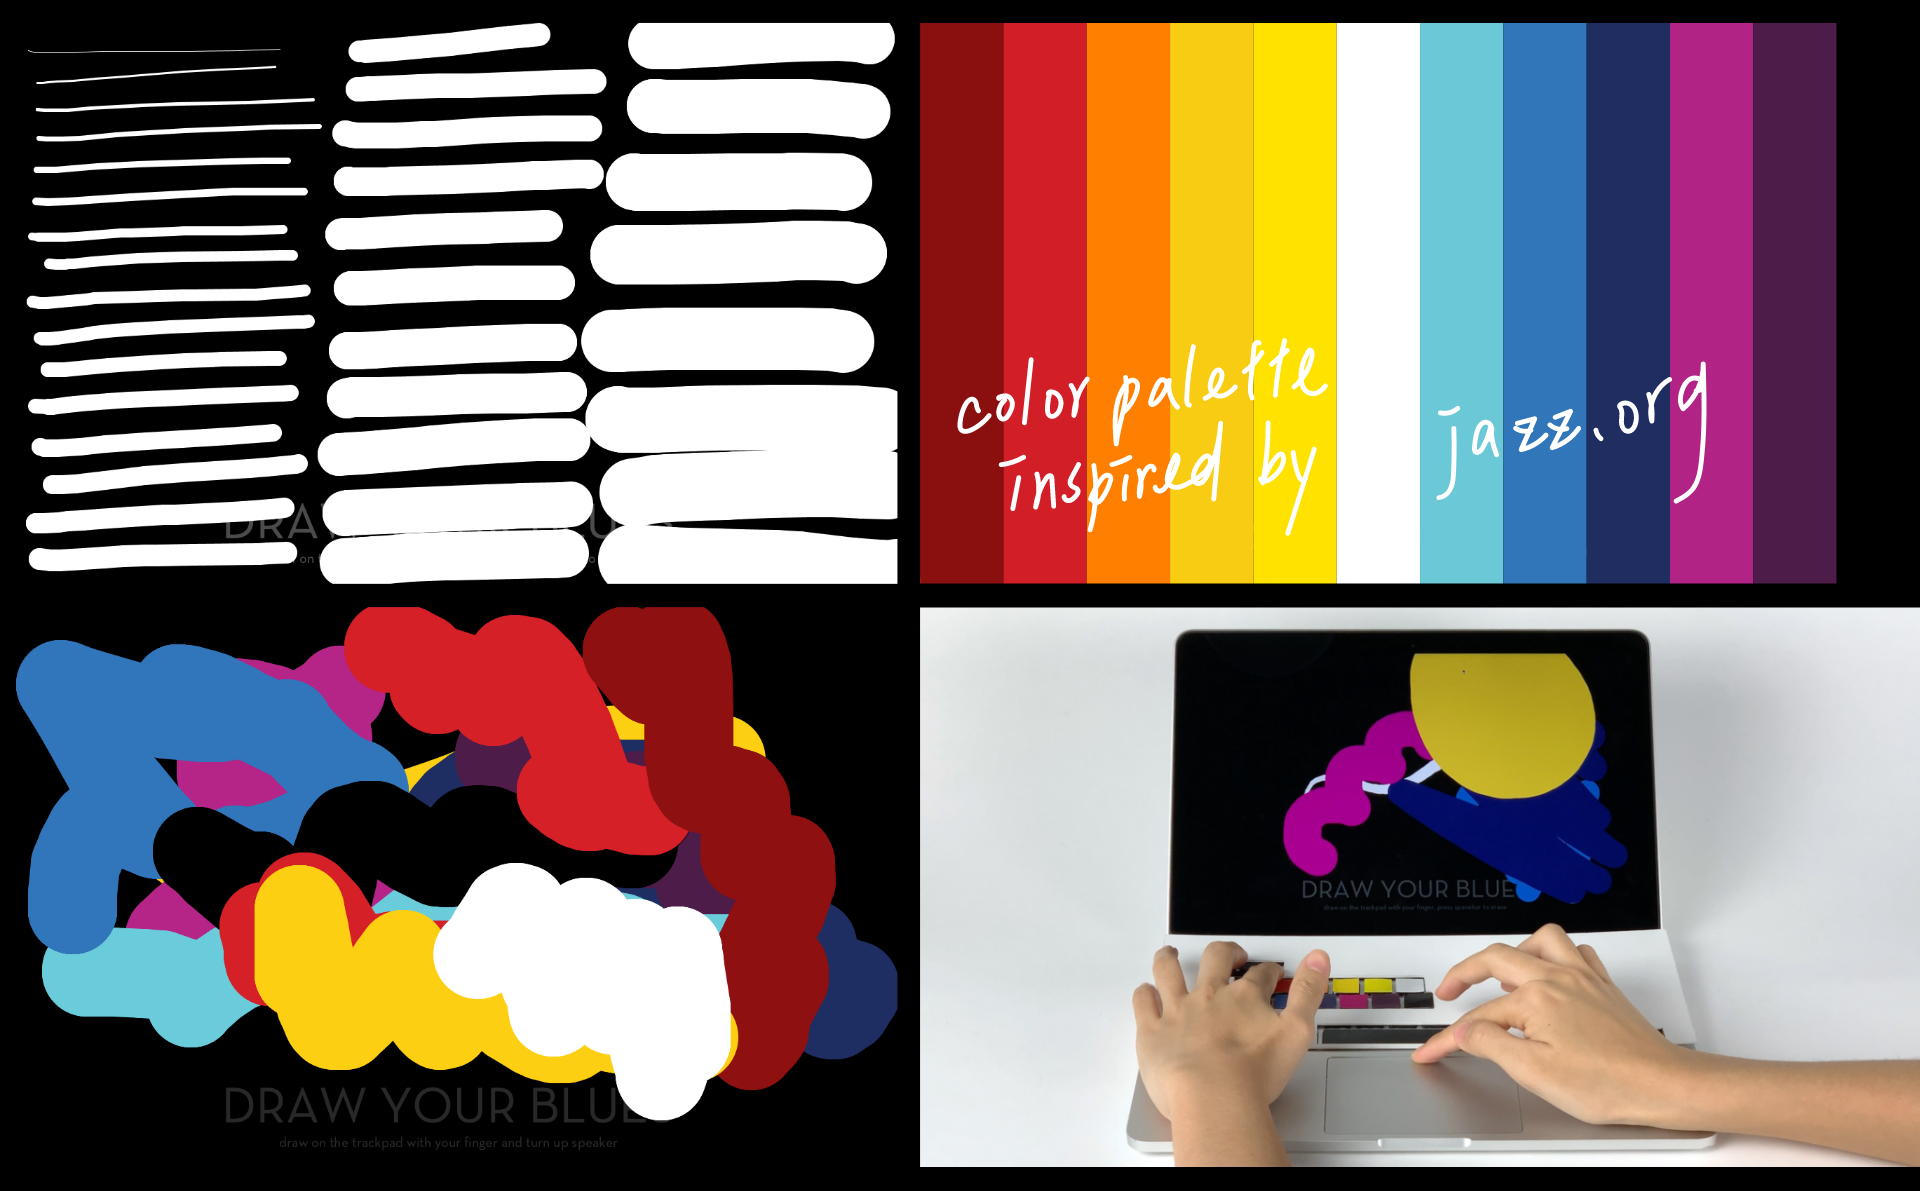
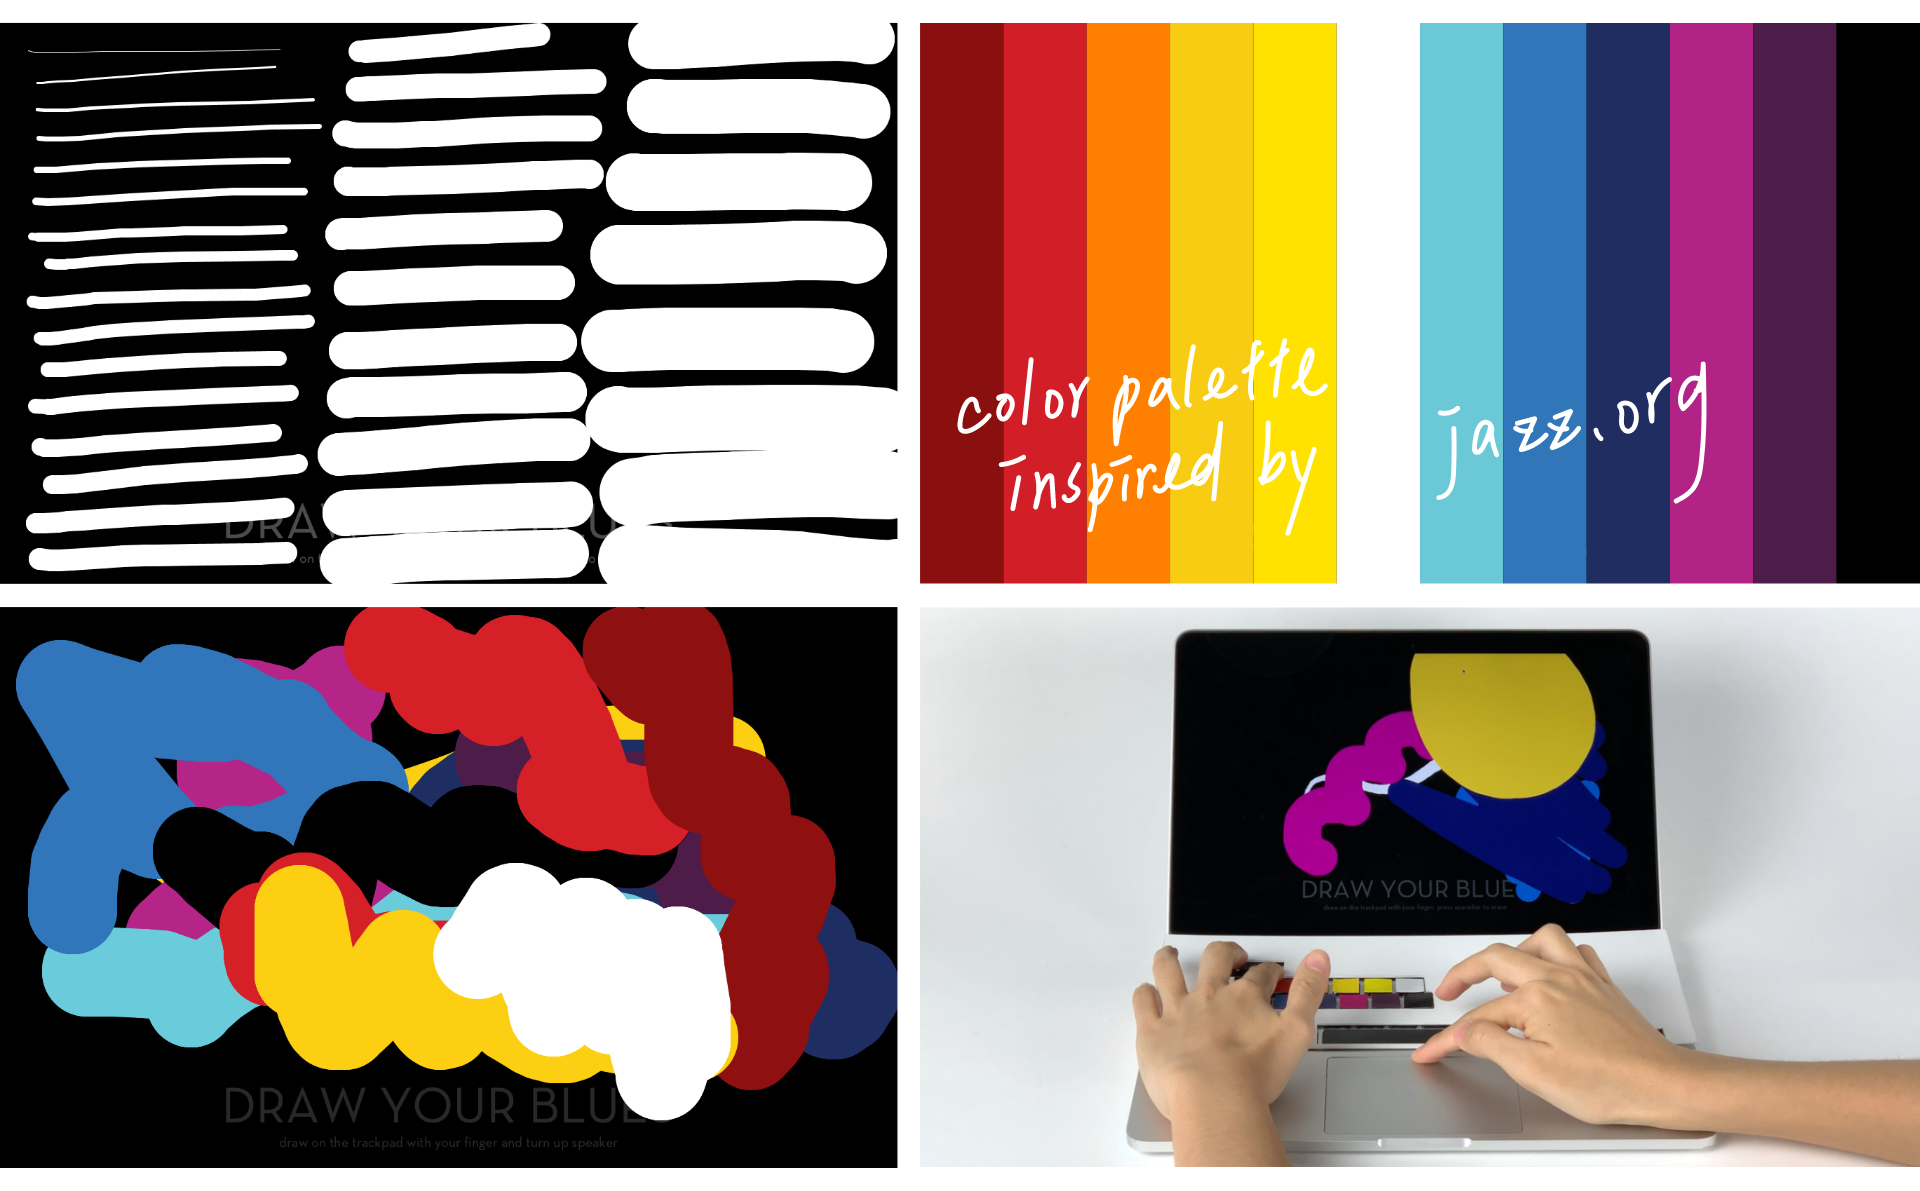
s
s

Changed region(s): [[0.0, 0.0, 1.0, 1.0]]

diff --git a/workstyle.css b/workstyle.css
@@ -7,7 +7,7 @@
 body, html{
   width: 100%;
   height: 100vh;
-  background: black;
+  background: white;
 }
 
 body{
@@ -65,7 +65,7 @@ body{
   font-variant: normal; 
   font-weight: 100; 
   line-height: 28px;
-  color: white;
+  color: black;
   position: fixed;
 }
 
@@ -100,7 +100,7 @@ ul li a{
   font-variant: normal; 
   font-weight: 100; 
   line-height: 28px;
-  color: white;
+  color: black;
   text-decoration: none;
   padding: 0 0;
 }
@@ -174,7 +174,7 @@ p3{
   font-size: 21px;
   line-height: 28px;
   font-family: 'Tinos', serif;
-  color: black;
+  color: white;
 }
 
 h1{
@@ -191,7 +191,7 @@ font-family: 'Karla', sans-serif;
   font-variant: normal; 
   font-weight: 100; 
   line-height: 28px;
-  color: white;
+  color: black;
   text-decoration: none;
 }
 
@@ -213,7 +213,7 @@ a.infolink{
   font-variant: normal; 
   font-weight: 100; 
   line-height: 28px;
-  color: white;
+  color: black;
   text-decoration: none;
 }
 
@@ -235,7 +235,7 @@ a.logolink{
   font-variant: normal; 
   font-weight: 100; 
   line-height: 28px;
-  color: white;
+  color: black;
   text-decoration: none;
 }
 
@@ -257,7 +257,7 @@ a.thumblink{
   font-variant: normal; 
   font-weight: 100; 
   line-height: 28px;
-  color: white;
+  color: black;
   text-decoration: none;
 }
 
@@ -268,7 +268,7 @@ a.thumblink:hover{
   font-variant: normal; 
   font-weight: 100; 
   line-height: 28px;
-  color: white;
+  color: black;
   text-decoration: underline;
 }
 
@@ -279,7 +279,7 @@ a.pagelink{
   font-variant: normal; 
   font-weight: 100; 
   line-height: 28px;
-  color: white;
+  color: black;
   text-decoration: underline;
 }
 
@@ -290,7 +290,7 @@ a.pagelink:hover{
   font-variant: normal; 
   font-weight: 100; 
   line-height: 28px;
-  color: white;
+  color: black;
   text-decoration: underline;
 }
 
